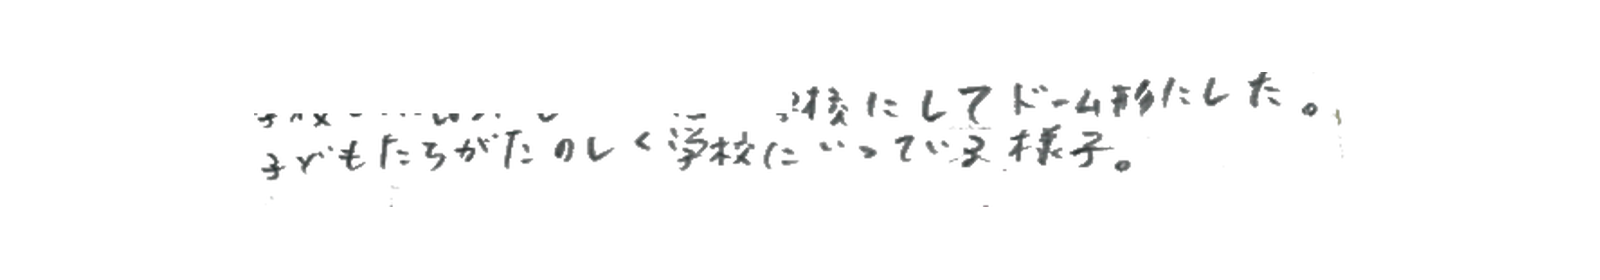
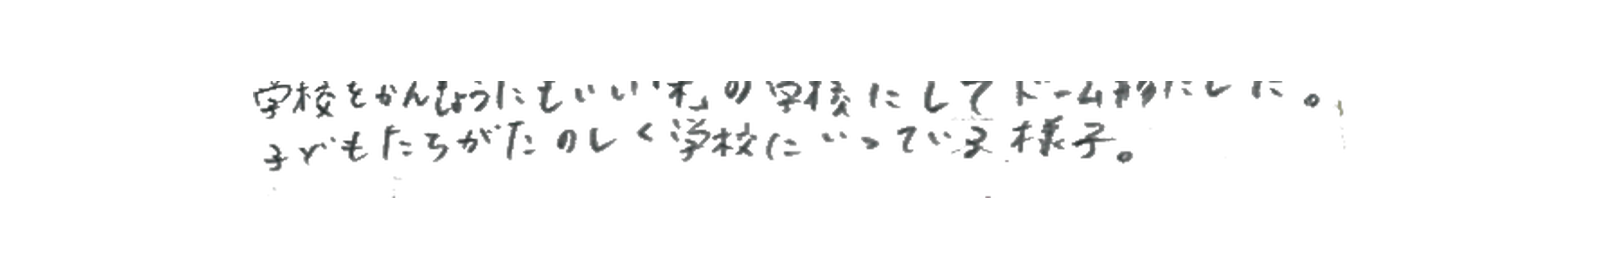
Remove two works and refine school fragment

Changed region(s): [[0.1562, 0.2571, 0.8438, 0.6571]]

diff --git a/index.html b/index.html
@@ -5,8 +5,8 @@
     <meta name="viewport" content="width=device-width, initial-scale=1" />
     <meta name="description" content="作品の中の小さな要素から、それぞれの平和をひらく。" />
     <title>平和とは — 無限の画布</title>
-    <link rel="stylesheet" href="styles.css?v=20261128-22" />
-    <script src="script.js?v=20261128-22" defer></script>
+    <link rel="stylesheet" href="styles.css?v=20261128-23" />
+    <script src="script.js?v=20261128-23" defer></script>
   </head>
   <body>
     <main
@@ -68,15 +68,13 @@
         <button class="fragment fragment--twentyone" type="button" data-index="20" aria-label="はたらきに行く大人を開く"><img src="assets/day2-elements/14-40-55.0.png?v=15" alt="働きに行く大人の切り抜き" draggable="false" /><span class="fragment__prompt" aria-hidden="true">平和とは？</span></button>
         <button class="fragment fragment--twentytwo" type="button" data-index="21" aria-label="すてきな学校にするを開く"><img src="assets/day2-elements/14-43-10.0.png?v=15" alt="青いランドセルの子どもの切り抜き" draggable="false" /><span class="fragment__prompt" aria-hidden="true">平和とは？</span></button>
         <button class="fragment fragment--twentythree" type="button" data-index="22" aria-label="りょこうを開く"><img src="assets/pm-elements/pm-01.png?v=1" alt="飛行機の切り抜き" draggable="false" /><span class="fragment__prompt" aria-hidden="true">平和とは？</span></button>
-        <button class="fragment fragment--twentyfour" type="button" data-index="23" aria-label="世界を開く"><img src="assets/pm-elements/pm-02.png?v=1" alt="旅行かばんの切り抜き" draggable="false" /><span class="fragment__prompt" aria-hidden="true">平和とは？</span></button>
-        <button class="fragment fragment--twentyfive" type="button" data-index="24" aria-label="楽しい日を開く"><img src="assets/pm-elements/pm-03.png?v=1" alt="四人の家族の切り抜き" draggable="false" /><span class="fragment__prompt" aria-hidden="true">平和とは？</span></button>
-        <button class="fragment fragment--twentysix" type="button" data-index="25" aria-label="明るい大きな学校を開く"><img src="assets/pm-elements/pm-04.png?v=1" alt="緑のランドセルの切り抜き" draggable="false" /><span class="fragment__prompt" aria-hidden="true">平和とは？</span></button>
-        <button class="fragment fragment--twentyseven" type="button" data-index="26" aria-label="うさぎのひみつきちを開く"><img src="assets/pm-elements/pm-05.png?v=1" alt="うさぎの秘密基地の切り抜き" draggable="false" /><span class="fragment__prompt" aria-hidden="true">平和とは？</span></button>
-        <button class="fragment fragment--twentyeight" type="button" data-index="27" aria-label="キャンプに行く子どもたちを開く"><img src="assets/pm-elements/pm-06.png?v=1" alt="黄色いテントの切り抜き" draggable="false" /><span class="fragment__prompt" aria-hidden="true">平和とは？</span></button>
-        <button class="fragment fragment--twentynine" type="button" data-index="28" aria-label="家を開く"><img src="assets/pm-elements/pm-07.png?v=1" alt="桃色のベッドの切り抜き" draggable="false" /><span class="fragment__prompt" aria-hidden="true">平和とは？</span></button>
-        <button class="fragment fragment--thirty" type="button" data-index="29" aria-label="たのしい人々を開く"><img src="assets/pm-elements/pm-08.png?v=1" alt="遊んでいる人々の切り抜き" draggable="false" /><span class="fragment__prompt" aria-hidden="true">平和とは？</span></button>
-        <button class="fragment fragment--thirtyone" type="button" data-index="30" aria-label="しあわせな親子を開く"><img src="assets/pm-elements/pm-09.png?v=1" alt="食卓を囲む親子の切り抜き" draggable="false" /><span class="fragment__prompt" aria-hidden="true">平和とは？</span></button>
-        <button class="fragment fragment--thirtytwo" type="button" data-index="31" aria-label="きれいな世界を開く"><img src="assets/pm-elements/pm-10.png?v=1" alt="虹の切り抜き" draggable="false" /><span class="fragment__prompt" aria-hidden="true">平和とは？</span></button>
+        <button class="fragment fragment--twentyfour" type="button" data-index="23" aria-label="楽しい日を開く"><img src="assets/pm-elements/pm-03.png?v=1" alt="四人の家族の切り抜き" draggable="false" /><span class="fragment__prompt" aria-hidden="true">平和とは？</span></button>
+        <button class="fragment fragment--twentyfive" type="button" data-index="24" aria-label="明るい大きな学校を開く"><img src="assets/pm-elements/pm-04.png?v=5" alt="ランドセルを背負った四人の学生の切り抜き" draggable="false" /><span class="fragment__prompt" aria-hidden="true">平和とは？</span></button>
+        <button class="fragment fragment--twentysix" type="button" data-index="25" aria-label="うさぎのひみつきちを開く"><img src="assets/pm-elements/pm-05.png?v=1" alt="うさぎの秘密基地の切り抜き" draggable="false" /><span class="fragment__prompt" aria-hidden="true">平和とは？</span></button>
+        <button class="fragment fragment--twentyseven" type="button" data-index="26" aria-label="キャンプに行く子どもたちを開く"><img src="assets/pm-elements/pm-06.png?v=1" alt="黄色いテントの切り抜き" draggable="false" /><span class="fragment__prompt" aria-hidden="true">平和とは？</span></button>
+        <button class="fragment fragment--twentyeight" type="button" data-index="27" aria-label="家を開く"><img src="assets/pm-elements/pm-07.png?v=1" alt="桃色のベッドの切り抜き" draggable="false" /><span class="fragment__prompt" aria-hidden="true">平和とは？</span></button>
+        <button class="fragment fragment--twentynine" type="button" data-index="28" aria-label="しあわせな親子を開く"><img src="assets/pm-elements/pm-09.png?v=1" alt="食卓を囲む親子の切り抜き" draggable="false" /><span class="fragment__prompt" aria-hidden="true">平和とは？</span></button>
+        <button class="fragment fragment--thirty" type="button" data-index="29" aria-label="きれいな世界を開く"><img src="assets/pm-elements/pm-10.png?v=1" alt="虹の切り抜き" draggable="false" /><span class="fragment__prompt" aria-hidden="true">平和とは？</span></button>
       </div>
     </main>
 

diff --git a/script.js b/script.js
@@ -85,20 +85,18 @@ const works = [
   })),
   ...[
     ["りょこう", "pm-01", "家族で飛行機に乗ってりょこうする。"],
-    ["世界", "pm-02", ""],
     ["楽しい日", "pm-03", "この家族が平和について、楽しいと思っている場面。"],
     ["明るい大きな学校", "pm-04", "木の学校をドーム形にして、子どもたちが楽しく学校に行っている様子。"],
     ["うさぎのひみつきち", "pm-05", "うさぎのひみつきちに子どもたちが向かっている様子。"],
     ["キャンプに行く子どもたち", "pm-06", "子どもたちが平和にキャンプに行っています。晴れていて、きれいなキャンプ場です。"],
     ["家", "pm-07", "平和な世界に住んでいる動物の家の中。"],
-    ["たのしい人々", "pm-08", "戦争が終わって、安全にしている。"],
     ["しあわせな親子", "pm-09", "家で楽しくのんびりしている親子の様子。"],
     ["きれいな世界", "pm-10", "天気がとてもきれいで、子どもが遊んでいる世界。"],
-  ].map(([title, stem, noteAlt], index) => ({
+  ].map(([title, stem, noteAlt]) => ({
     title,
     artwork: `assets/pm-art/${stem}.jpg?v=1`,
     artworkAlt: `${title}を描いた作品`,
-    note: index === 1 ? "" : `assets/pm-notes/${stem}.png?v=1`,
+    note: `assets/pm-notes/${stem}.png?v=${stem === "pm-04" ? 3 : 1}`,
     noteAlt,
   })),
 ];
@@ -111,7 +109,7 @@ const detailAnswer = document.querySelector("#detail-answer");
 const detailArt = document.querySelector("#detail-art");
 const detailNote = document.querySelector("#detail-note");
 
-const WORLD_WIDTH = 5000;
+const WORLD_WIDTH = 4700;
 const WORLD_HEIGHT = 720;
 const INITIAL_VIEW_WIDTH = 1280;
 const pointers = new Map();

diff --git a/styles.css b/styles.css
@@ -105,7 +105,7 @@ button {
   position: absolute;
   top: 0;
   left: 0;
-  width: 5000px;
+  width: 4700px;
   height: 720px;
   transform: translate3d(var(--pan-x, 0), var(--pan-y, 0), 0);
   will-change: transform;
